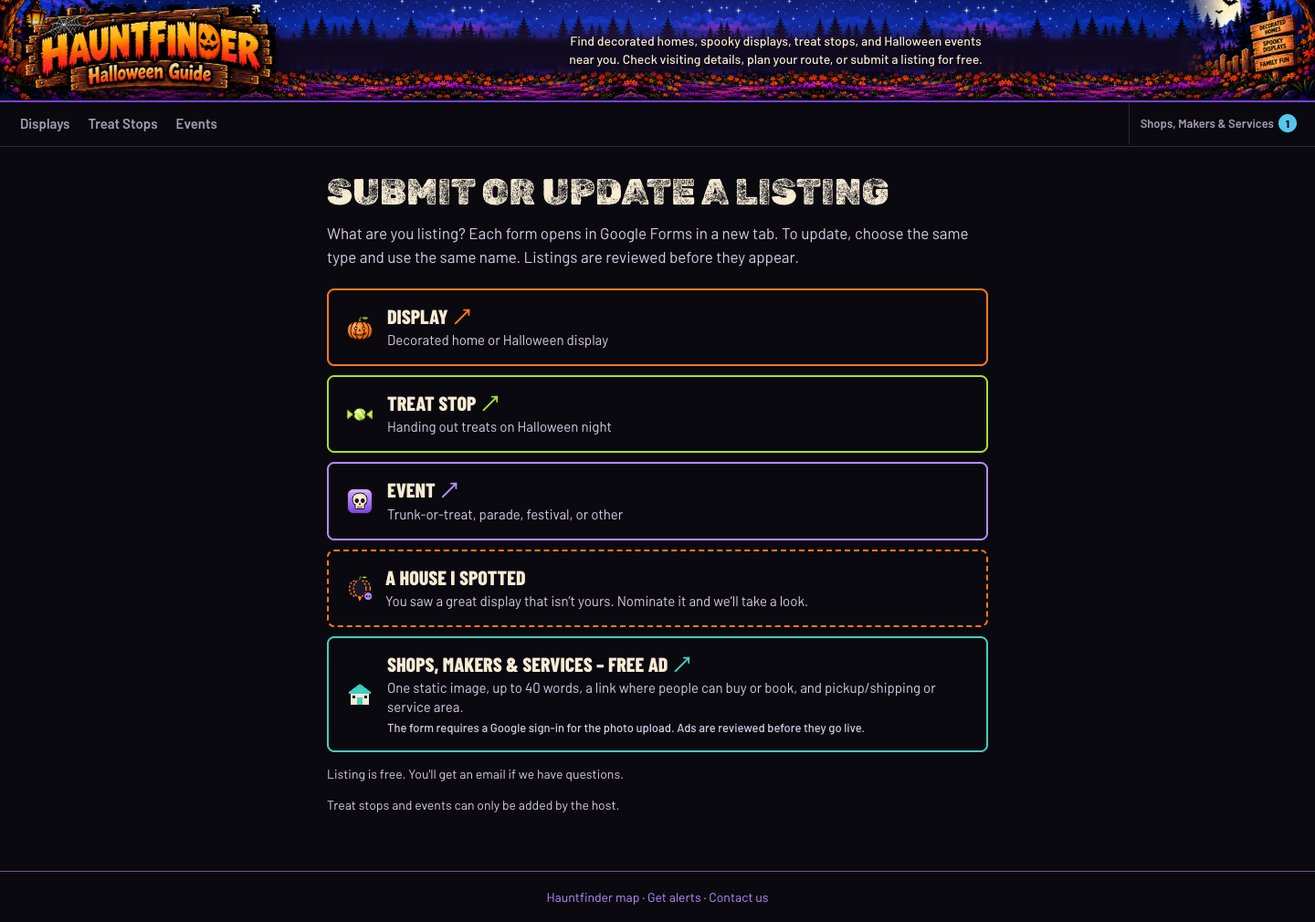
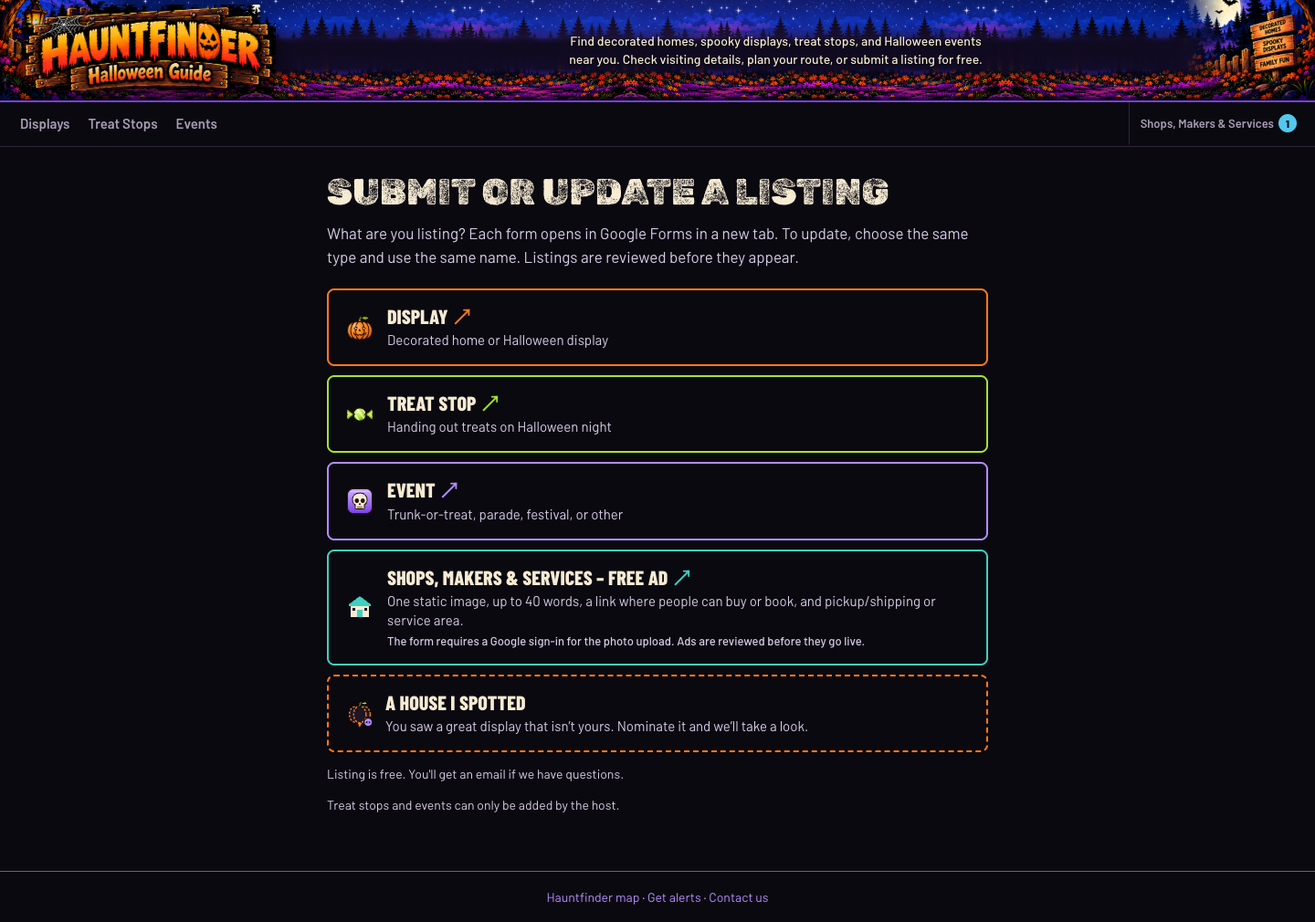
Apply design calls: rail toggle, submit order, owner-sized community pins
- Community spotted moves into the filter rail (and the phone Filters sheet),
  off counts as an active filter, Clear all restores it; floating chip removed.
- submit.html: "A house I spotted" is last, after Shops.
- Community pins shrink to 30x35 mobile / 34x40 desktop inside a 44x44 tap box.

Changed region(s): [[0.25, 0.6139, 0.75, 0.798]]

diff --git a/index.html b/index.html
@@ -36,7 +36,7 @@ fbq('track', 'PageView');
 <main class="shell page-grid app__main">
   <aside class="filter-rail" id="filterRail" aria-label="Listing filters"><button type="button" class="filter-rail__expand" id="railExpand" aria-expanded="true" aria-controls="filters"><span class="filter-rail__expand-label">Show filters ▸</span><span class="filter-rail__badge" id="railBadge" hidden></span></button><div class="filter-rail__head"><span aria-hidden="true">☰</span><h2>Filters</h2></div><div class="filter-rail__sheet-head"><h2 id="sheetTitle">Filters</h2><button type="button" class="sheet-close" id="sheetClose" aria-label="Close filters">×</button></div><div class="filters" id="filters" aria-label="Filter displays"></div><div class="filter-rail__sheet-foot"><button type="button" class="btn btn--outline" id="sheetClear">Clear all</button><button type="button" class="btn btn--route" id="sheetShow">Show results</button></div><nav class="filter-rail__links" aria-label="Site links"><a href="submit.html">+ Submit a listing</a><button type="button" id="shareBtn">Share this site</button><a href="about.html">About</a><a href="alerts.html">Get alerts</a><a href="mailto:mtocommunityfinder@gmail.com">Contact us</a><span id="railVisits" hidden>Site visits: <span id="railVisitsCount"></span></span></nav></aside>
   <section class="map-column" aria-label="Display map">
-    <section id="eventCalendar" class="event-calendar" aria-labelledby="eventCalendarHeading" hidden><div class="events-head"><div class="events-weeknav" id="eventsWeekNav"><button type="button" id="prevWeek" class="events-weeknav__btn">‹ Prev week</button><h2 id="eventCalendarHeading" class="events-title">Halloween week</h2><button type="button" id="nextWeek" class="events-weeknav__btn">Next week ›</button></div><div class="events-head__actions"><button type="button" id="addAllToCalendar" class="events-ics"><img src="assets/icons/icon-calendar.svg" alt="" width="18" height="18">Add all events to your calendar</button><button type="button" id="thisWeek" class="btn btn--outline">This week</button><a id="submitEvent" class="btn btn--outline events-submit" hidden target="_blank" rel="noopener">+ Submit an event ↗</a></div></div><div class="ongoing-band" id="ongoingBand" hidden><span class="ongoing-band__label">Open all week</span><div class="ongoing-band__items" id="ongoingItems"></div></div><div class="events-view" id="eventsView"><div class="seg events-view__seg" role="radiogroup" aria-label="Events view"><button type="button" data-events-view="3days" aria-checked="false">3 days</button><button type="button" data-events-view="week" aria-checked="true">Week</button></div><button type="button" id="allEventDays" class="btn btn--outline">All week</button><p class="events-view__helper" id="eventsViewHelper">3 days shows today and the next two days</p></div><div id="eventWeek" class="event-week" data-view="week"></div><div id="eventsMobileList" class="events-mobile-list"></div><div class="event-legend" id="eventLegend" aria-label="Event type legend"></div></section><div class="map-frame"><div id="map" class="hf-map" aria-label="Interactive Halloween display map"></div><div id="mapPeek" class="map-peek is-hidden" aria-live="polite"></div><button type="button" class="community-chip" id="communityChip" aria-pressed="true"><span class="community-chip__box" aria-hidden="true">✓</span>Community spotted</button><a class="nominate-fab" id="nominateFab" href="nominate.html"><img src="assets/pins/pin-community.svg" alt="" width="20" height="24">Spotted a great house? Nominate it</a><div class="map-key" id="mapKey"><button type="button" class="map-key__toggle" id="mapKeyToggle" aria-expanded="false" aria-controls="mapKeyPanel">Map key <span aria-hidden="true">▾</span></button><div class="map-key__panel" id="mapKeyPanel"><h2 class="map-key__title">Map key</h2><ul class="map-key__rows"><li><img src="assets/icons/v2/pin-display.svg" alt="" width="24" height="29">Display</li><li><img src="assets/icons/v2/pin-treat-stop.svg" alt="" width="24" height="29">Treat stop</li><li><img src="assets/icons/v2/pin-event.svg" alt="" width="24" height="29">Event on your route</li><li><img src="assets/pins/pin-community.svg" alt="" width="24" height="28">Spotted by the community</li><li><img src="assets/icons/badge-on-route.svg" alt="" width="24" height="24">On your route</li></ul></div></div><small class="map-note">Distances are straight-line</small><button type="button" class="map-float-btn map-float-btn--search" id="searchAreaBtn">Search this area</button><button type="button" class="map-float-btn map-float-btn--full" id="fullMapBtn">Full map</button><div class="map-full-head" id="mapFullHead" hidden><button type="button" class="map-full-head__close" id="closeFullMapBtn">✕ Close map</button><p class="map-full-head__status" id="fullMapStatus">Within 25 mi of 07828</p><div class="map-full-head__radii" role="radiogroup" aria-label="Search radius"><button type="button" data-radius="5" aria-checked="false">5 mi</button><button type="button" data-radius="10" aria-checked="false">10 mi</button><button type="button" data-radius="25" aria-checked="true">25 mi</button><button type="button" data-radius="50" aria-checked="false">50 mi</button></div></div></div><div class="map-info"><div class="map-info__notes"><small class="map-hint" id="mapCategoryHint">Click or tap a pumpkin for details</small></div></div>
+    <section id="eventCalendar" class="event-calendar" aria-labelledby="eventCalendarHeading" hidden><div class="events-head"><div class="events-weeknav" id="eventsWeekNav"><button type="button" id="prevWeek" class="events-weeknav__btn">‹ Prev week</button><h2 id="eventCalendarHeading" class="events-title">Halloween week</h2><button type="button" id="nextWeek" class="events-weeknav__btn">Next week ›</button></div><div class="events-head__actions"><button type="button" id="addAllToCalendar" class="events-ics"><img src="assets/icons/icon-calendar.svg" alt="" width="18" height="18">Add all events to your calendar</button><button type="button" id="thisWeek" class="btn btn--outline">This week</button><a id="submitEvent" class="btn btn--outline events-submit" hidden target="_blank" rel="noopener">+ Submit an event ↗</a></div></div><div class="ongoing-band" id="ongoingBand" hidden><span class="ongoing-band__label">Open all week</span><div class="ongoing-band__items" id="ongoingItems"></div></div><div class="events-view" id="eventsView"><div class="seg events-view__seg" role="radiogroup" aria-label="Events view"><button type="button" data-events-view="3days" aria-checked="false">3 days</button><button type="button" data-events-view="week" aria-checked="true">Week</button></div><button type="button" id="allEventDays" class="btn btn--outline">All week</button><p class="events-view__helper" id="eventsViewHelper">3 days shows today and the next two days</p></div><div id="eventWeek" class="event-week" data-view="week"></div><div id="eventsMobileList" class="events-mobile-list"></div><div class="event-legend" id="eventLegend" aria-label="Event type legend"></div></section><div class="map-frame"><div id="map" class="hf-map" aria-label="Interactive Halloween display map"></div><div id="mapPeek" class="map-peek is-hidden" aria-live="polite"></div><a class="nominate-fab" id="nominateFab" href="nominate.html"><img src="assets/pins/pin-community.svg" alt="" width="20" height="24">Spotted a great house? Nominate it</a><div class="map-key" id="mapKey"><button type="button" class="map-key__toggle" id="mapKeyToggle" aria-expanded="false" aria-controls="mapKeyPanel">Map key <span aria-hidden="true">▾</span></button><div class="map-key__panel" id="mapKeyPanel"><h2 class="map-key__title">Map key</h2><ul class="map-key__rows"><li><img src="assets/icons/v2/pin-display.svg" alt="" width="24" height="29">Display</li><li><img src="assets/icons/v2/pin-treat-stop.svg" alt="" width="24" height="29">Treat stop</li><li><img src="assets/icons/v2/pin-event.svg" alt="" width="24" height="29">Event on your route</li><li><img src="assets/pins/pin-community.svg" alt="" width="24" height="28">Spotted by the community</li><li><img src="assets/icons/badge-on-route.svg" alt="" width="24" height="24">On your route</li></ul></div></div><small class="map-note">Distances are straight-line</small><button type="button" class="map-float-btn map-float-btn--search" id="searchAreaBtn">Search this area</button><button type="button" class="map-float-btn map-float-btn--full" id="fullMapBtn">Full map</button><div class="map-full-head" id="mapFullHead" hidden><button type="button" class="map-full-head__close" id="closeFullMapBtn">✕ Close map</button><p class="map-full-head__status" id="fullMapStatus">Within 25 mi of 07828</p><div class="map-full-head__radii" role="radiogroup" aria-label="Search radius"><button type="button" data-radius="5" aria-checked="false">5 mi</button><button type="button" data-radius="10" aria-checked="false">10 mi</button><button type="button" data-radius="25" aria-checked="true">25 mi</button><button type="button" data-radius="50" aria-checked="false">50 mi</button></div></div></div><div class="map-info"><div class="map-info__notes"><small class="map-hint" id="mapCategoryHint">Click or tap a pumpkin for details</small></div></div>
   </section>
   <aside class="list-column">
     <div id="contentPanels" class="content-panels">

diff --git a/app.js b/app.js
@@ -1271,7 +1271,7 @@ function cardIconHTML(kind){return `<div class="pin pin--${kind} pin--card"><img
 function raiseMarker(m,on){if(!m||!m.setZIndexOffset)return;if(m._hfBase===undefined)m._hfBase=m.options.zIndexOffset||0;m.setZIndexOffset(m._hfBase+(on?1000:0))}
 function pinWidth(){return matchMedia('(max-width:767px)').matches?30:34}
 function pinHeight(w){return Math.round(w*156/128)}
-function iconFor(n,kind){if(kind==='community'){const mobile=matchMedia('(max-width:767px)').matches,w=mobile?46:58,h=mobile?54:68;return L.divIcon({className:'',html:communityPinHTML(n),iconSize:[w,h],iconAnchor:[w/2,h]})}const w=pinWidth(),h=pinHeight(w);return L.divIcon({className:'',html:pinHTML(n,kind),iconSize:[w,h],iconAnchor:[w/2,h-1]})}
+function iconFor(n,kind){if(kind==='community'){return L.divIcon({className:'community-icon',html:communityPinHTML(n),iconSize:[44,44],iconAnchor:[22,44]})}const w=pinWidth(),h=pinHeight(w);return L.divIcon({className:'',html:pinHTML(n,kind),iconSize:[w,h],iconAnchor:[w/2,h-1]})}
 function gmapsDirections(address){return `https://www.google.com/maps/dir/?api=1&destination=${encodeURIComponent(address)}`}
 // Route-planner meta line for event stops: their date + hours, never a town.
 function eventDateBits(x){const upcoming=typeof eventUpcomingDates==='function'?eventUpcomingDates(x):[];const dates=upcoming.length?upcoming:(x.date?[x.date]:[]);const fmt=d=>new Date(d+'T12:00:00').toLocaleDateString('en-US',{month:'short',day:'numeric'});if(!dates.length){const d=x.date||String(x.startAt||'').slice(0,10);return d&&/^\d{4}-\d{2}-\d{2}$/.test(d)?fmt(d):'Date TBA'}if(dates.length===1)return fmt(dates[0]);return 'Next '+fmt(dates[0])+' · also '+dates.slice(1).map(fmt).join(', ')}
@@ -1281,6 +1281,8 @@ function isTreatStop(x){return x.kind==='Trick-or-treat stop'}
 // lat/lng is the curb point in front of the verified address, never the rooftop or the photo's GPS point.
 // Records still carry levels/type/features arrays (empty) so every owner-listing filter keeps working.
 function isCommunity(x){return !!x&&x.source==='community'}
+// "Community spotted" is a rail/filter-sheet toggle, separate from the scare-level chips. Off hides only community pins and cards.
+function setCommunity(on){state.community=!!on;const sel=listings.find(v=>v.num===state.selected);if(!state.community&&sel&&isCommunity(sel)){state.selected=null;hidePeek()}}
 function removedHere(x){try{return JSON.parse(localStorage.getItem('hfhidden:2026')||'[]').includes(x.num)}catch{return false}}
 const COMMUNITY_BADGE='Spotted by the community, not submitted by the owner';
 function communityNameText(x){return String(x.name||'')}
@@ -1380,8 +1382,6 @@ function revealSelectedPin(){if(state.selected==null)return;const sm=markerByNum
 async function loadMarkers(){const bounds=[];for(const x of listings){if(x.placeholder||!Number.isFinite(x.lat)||!Number.isFinite(x.lng))continue;const c={lat:x.lat,lng:x.lng};state.coords[x.num]=c;const m=L.marker([c.lat,c.lng],{icon:iconFor(x.num,isCommunity(x)?'community':isTreatStop(x)?'treat':'display'),keyboard:true,title:`${isCommunity(x)?'Community-spotted display':isTreatStop(x)?'Treat stop':'Display'}: ${x.name}`,zIndexOffset:(listings.filter(v=>v.address===x.address).length>1?1000:100)+x.num});m.on('add',()=>applyPinState(m,x.num));addListing(m);m.getElement()?.setAttribute('aria-label',`${isCommunity(x)?'Community-spotted display':isTreatStop(x)?'Treat stop':'Display'}: ${x.name}`);m.on('click',()=>{selectListing(x.num,true)});m.on('mouseover',()=>linkPair(x.num,true));m.on('mouseout',()=>linkPair(x.num,false));markerByNum.set(x.num,m);bounds.push([c.lat,c.lng])}if(bounds.length)fitVisiblePins();[100,600,1500].forEach(t=>setTimeout(()=>{map.invalidateSize();revealSelectedPin()},t))}
 
 document.getElementById('filters').addEventListener('click',e=>{if(e.target.closest('[data-reset-filters]')){state.filter='All';state.dateFilter=typeof saveDateFilter==='function'?saveDateFilter({kind:null,date:null},localStorage):null;renderFilters();renderCards();return}const b=e.target.closest('[data-filter]');if(!b)return;state.filter=state.filter===b.dataset.filter?'All':b.dataset.filter;renderFilters();renderCards()});document.getElementById('showAllBtn').onclick=()=>{state.filter='All';state.features=[];state.dateFilter=typeof saveDateFilter==='function'?saveDateFilter({kind:null,date:null},localStorage):null;renderFilters();renderCards()};document.getElementById('shareBtn').onclick=async()=>{const b=document.getElementById('shareBtn'),payload={title:'Hauntfinder',text:'Find Halloween displays, treat stops, and events near you.',url:'https://hauntfinder.vercel.app/'};try{if(navigator.share)await navigator.share(payload);else{await navigator.clipboard.writeText('https://hauntfinder.vercel.app/');b.textContent='Link copied';setTimeout(()=>b.textContent='Share this site',2000)}}catch{}};
-// Community spotted chip: its own toggle, separate from the scare-level chips. Off hides only community pins and cards.
-(function(){const chip=document.getElementById('communityChip');if(!chip)return;const box=chip.querySelector('.community-chip__box');chip.addEventListener('click',()=>{state.community=!state.community;chip.setAttribute('aria-pressed',String(state.community));box.textContent=state.community?'✓':'';const sel=listings.find(v=>v.num===state.selected);if(!state.community&&sel&&isCommunity(sel)){state.selected=null;hidePeek()}renderCards()})})();
 renderFilters();renderCards();renderRoute();loadMarkers();
 
 

diff --git a/community.css b/community.css
@@ -1,28 +1,28 @@
 /* Community-spotted houses on the map, cards, key and submit chooser.
    Values follow the approved "Nominate a Display" design (1a, 1b, 1f, 1h). */
-/* Pins: 46x54 mobile, 58x68 desktop, anchored bottom-centre (anchor set in app.js). */
-html body .pin.pin--community{width:46px;height:54px;filter:drop-shadow(0 3px 6px rgba(0,0,0,.6))}
-@media(min-width:768px){html body .pin.pin--community{width:58px;height:68px}}
-html body .pin.pin--community.is-linked,html body .pin.pin--community.is-selected{transform:scale(1.18);filter:drop-shadow(0 0 10px rgba(180,140,255,.9))}
+/* Pins: owner-pin proportions (30x35 mobile, 34x40 desktop) so unverified community pins never outshine owner pins,
+   inside a 44x44 invisible tap area (the Leaflet icon box). Anchor is bottom centre. */
+.community-icon{width:44px;height:44px}
+html body .community-icon .pin.pin--community{position:absolute;left:50%;bottom:0;width:30px;height:35px;margin-left:-15px;filter:drop-shadow(0 3px 6px rgba(0,0,0,.6))}
+@media(min-width:768px){html body .community-icon .pin.pin--community{width:34px;height:40px;margin-left:-17px}}
+html body .community-icon .pin.pin--community.is-linked,html body .community-icon .pin.pin--community.is-selected{transform:scale(1.18);filter:drop-shadow(0 0 10px rgba(180,140,255,.9))}
 html body .pin.pin--community::after{display:none}
 .pin--community .pin__art--route{display:none}
 .pin--community.is-on-route .pin__art{display:none}
 .pin--community.is-on-route .pin__art--route{display:block}
-.pin__cnum{position:absolute;left:0;right:0;top:35%;text-align:center;font:800 17px/20px var(--f-cond);color:#FF7A1A;pointer-events:none}
-@media(min-width:768px){.pin__cnum{font-size:19px;line-height:22px;top:34%}}
+.pin__cnum{position:absolute;left:0;right:0;top:34%;text-align:center;font:800 11px/13px var(--f-cond);color:#FF7A1A;pointer-events:none}
+@media(min-width:768px){.pin__cnum{font-size:12px;line-height:14px}}
 .pin--community.is-on-route .pin__cnum{color:#A6E22E}
 /* Card pins sit at 40x47 in the card head. */
 html body .card__pin--community,html body #cardList .card--compact .card__head .card__pin--community{flex:none;width:40px;height:47px}
 html body .card__pin--community .pin.pin--card,html body #cardList .card--compact .card__head .card__pin--community .pin{width:40px;height:47px;transform:none;filter:none}
 .card__pin--community .pin__cnum{font-size:15px;line-height:18px;top:32%}
 
-/* Filter chip: checkbox-style toggle, on by default, separate from the scare-level chips. */
-.community-chip{position:absolute;left:60px;top:12px;z-index:650;height:36px;padding:0 14px 0 10px;border-radius:18px;border:1px solid #B48CFF;background:#241638;color:#F6EBD3;font:600 14px var(--f-body);display:flex;align-items:center;gap:8px;cursor:pointer}
-.community-chip__box{width:18px;height:18px;border-radius:4px;background:#B48CFF;color:#120E18;font:800 13px var(--f-body);display:flex;align-items:center;justify-content:center;box-sizing:border-box}
-.community-chip[aria-pressed="false"]{border-color:#3A3046;background:#16111E;color:#CFC4B0}
-.community-chip[aria-pressed="false"] .community-chip__box{background:transparent;border:1.5px solid #A89DB4}
-.community-chip:focus-visible,.nominate-fab:focus-visible{outline:2px solid #F6EBD3;outline-offset:2px}
-html:not([data-category="displays"]) .community-chip,html[data-fullmap] .community-chip{display:none}
+/* Filter toggle in the filter rail (and the phone Filters sheet): checkbox-style, separate from the scare-level chips. */
+.filter-rail .filter.filter--rail[data-rail-filter="community"]{display:inline-flex;align-items:center;gap:8px;padding-left:8px}
+.filter-rail .filter--rail[data-rail-filter="community"]::before{content:"";width:16px;height:16px;border-radius:4px;border:1.5px solid #A89DB4;box-sizing:border-box;flex:none}
+.filter-rail .filter.filter--rail[data-rail-filter="community"][aria-pressed="true"]{border-color:#B48CFF;background:#241638;color:#F6EBD3}
+.filter-rail .filter--rail[data-rail-filter="community"][aria-pressed="true"]::before{content:"✓";background:#B48CFF;border-color:#B48CFF;color:#120E18;font:800 12px/13px var(--f-body);text-align:center}
 html[data-fullmap] .nominate-fab{display:none}
 
 /* Entry point on the map, beside Submit. */
@@ -60,7 +60,7 @@ html:not([data-category="displays"]) .nominate-fab{display:none}
 /* Map peek on phones: the card as a bottom sheet. */
 .map-popup--community{max-height:70vh;overflow:auto}
 @media(min-width:768px){html body .map-peek .map-popup--community{width:340px;max-width:calc(100% - 24px)}}
-.pin__cnum--wide{font-size:13px}
+.pin__cnum--wide{font-size:9px}
 .map-popup--community .map-popup__close{position:absolute;top:8px;right:8px;z-index:2}
 
 /* Submit chooser: "A house I spotted". */

diff --git a/tests/community.test.js b/tests/community.test.js
@@ -42,21 +42,32 @@ test('community pin: own art, on-route art, number is the listing number',()=>{
   const h=helpers().communityPinHTML(7);
   assert.ok(h.includes('assets/pins/pin-community.svg')&&h.includes('assets/pins/pin-community-route.svg')&&h.includes('>7<'));
   assert.match(css,/pin--community\.is-on-route \.pin__art--route\{display:block\}/);
-  assert.match(css,/\.pin__cnum\{[^}]*800 17px\/20px var\(--f-cond\);color:#FF7A1A/,'number Barlow Condensed 800 in #FF7A1A');
+  assert.match(css,/\.pin__cnum\{[^}]*800 11px\/13px var\(--f-cond\);color:#FF7A1A/,'number Barlow Condensed 800 in #FF7A1A');
   assert.match(css,/is-on-route \.pin__cnum\{color:#A6E22E\}/,'on-route number is lime');
-  assert.match(css,/pin--community\{width:46px;height:54px/);assert.match(css,/min-width:768px\)\{html body \.pin\.pin--community\{width:58px;height:68px/);
-  assert.ok(app.includes('iconAnchor:[w/2,h]'),'community anchor is bottom centre');
+  assert.match(css,/community-icon \.pin\.pin--community\{position:absolute;left:50%;bottom:0;width:30px;height:35px/,'30x35 on mobile');
+  assert.match(css,/min-width:768px\)\{html body \.community-icon \.pin\.pin--community\{width:34px;height:40px/,'34x40 on desktop');
+  assert.ok(app.includes('iconSize:[44,44],iconAnchor:[22,44]'),'44x44 tap area, bottom-centre anchor');
 });
-test('filter: community chip is its own toggle, default on, hides only community; hidden listings never show',()=>{
+test('filter: Community spotted is a rail toggle (phone Filters sheet too), default on, separate from scare level; hidden listings never show',()=>{
+  const chrome=read('chrome-filters.js');
   assert.ok(app.includes('community:true'),'on by default');
-  assert.ok(html.includes('id="communityChip" aria-pressed="true"')&&html.includes('Community spotted'));
+  assert.equal(html.includes('communityChip'),false,'no floating chip over the map');
+  assert.ok(chrome.includes("railSection('Community',railChip('community','community','Community spotted',state.community!==false))"),'chip lives in the filter rail');
+  assert.ok(chrome.includes("if(action==='community')setCommunity(state.community===false);"),'toggle handler');
+  assert.ok(chrome.includes("railSection('Scare level',scares)+railSection('Community'"),'its own group, after scare level');
+  assert.ok(/function railActiveCount\(\)\{return \(state\.community===false\?1:0\)/.test(chrome),'off counts as an active filter');
+  assert.ok(chrome.includes("if(e.target.closest('[data-rail-clear]')){state.community=true;"),'Clear all filters restores the default');
   assert.ok(app.includes("if(x.hidden||removedHere(x))return false;if(isCommunity(x)&&!state.community)return false;"),'matchFilter order');
-  assert.equal(/state\.filter=.*communityChip/.test(app),false,'chip does not touch the scare-level filter');
   const m=/function removedHere\(x\)\{[^\n]*\}/.exec(app)[0];
   const ctx={localStorage:{getItem:()=>JSON.stringify([7])}};vm.createContext(ctx);vm.runInContext(m,ctx);
   assert.equal(ctx.removedHere({num:7}),true);assert.equal(ctx.removedHere({num:8}),false);
+  const sc=/function setCommunity\(on\)\{[^\n]*\}/.exec(app)[0],c2={state:{community:true,selected:7},listings:[{num:7,source:'community'}],isCommunity:x=>x.source==='community',hid:false,hidePeek:()=>{c2.hid=true}};
+  vm.createContext(c2);vm.runInContext(sc+';setCommunity(false)',c2);
+  assert.equal(c2.state.community,false);assert.equal(c2.state.selected,null);assert.equal(c2.hid,true);
 });
-test('entry points: map button, submit.html third choice, map key row',()=>{
+test('entry points: map button, submit.html last choice after Shops, map key row',()=>{
+  assert.ok(submit.indexOf('data-type-link="shop"')<submit.indexOf('data-type-link="spotted"'),'A house I spotted comes after Shops');
+  assert.ok(submit.indexOf('data-type-link="spotted"')<submit.indexOf('Treat stops and events can only be added by the host.'),'right next to the host line');
   assert.ok(html.includes('href="nominate.html">')&&html.includes('Spotted a great house? Nominate it'));
   assert.ok(submit.includes('A house I spotted')&&submit.includes('You saw a great display that isn’t yours. Nominate it and we’ll take a look.')&&submit.includes('href="nominate.html"'));
   assert.ok(submit.includes('Treat stops and events can only be added by the host.'));

diff --git a/chrome-filters.js b/chrome-filters.js
@@ -113,7 +113,7 @@ function ddHTML(kind,label,valueText,active,session){return `<details class="dd$
 
 function railChip(action,value,label,pressed){return `<button type="button" class="filter filter--rail" data-rail-filter="${action}" data-value="${String(value).replace(/&/g,'&amp;').replace(/"/g,'&quot;')}" aria-pressed="${pressed}">${action==='event-type'&&typeof hfEventColor==='function'?`<span class="type-dot" aria-hidden="true" style="background:${hfEventColor({eventType:value})}"></span>`:''}${typeof hfIconSVG==='function'&&action!=='event-type'?hfIconSVG(value)||hfIconSVG(label):''}${label}</button>`}
 function railSection(label,body){return `<section class="filter-rail__section"><h3>${label}</h3><div class="filter-rail__chips">${body}</div></section>`}
-function railActiveCount(){return (state.dateFilter&&state.dateFilter.kind?1:0)+(state.filter&&state.filter!=='All'?1:0)+((state.features||[]).length)}
+function railActiveCount(){return (state.community===false?1:0)+(state.dateFilter&&state.dateFilter.kind?1:0)+(state.filter&&state.filter!=='All'?1:0)+((state.features||[]).length)}
 function railClearHTML(){return railActiveCount()?'<button type="button" class="filter-rail__clear" data-rail-clear>Clear all filters</button>':''}
 function railFiltersHTML(){
  const kind=(state.dateFilter&&state.dateFilter.kind)||'',isHalloween=Boolean(state.dateFilter&&state.dateFilter.kind==='date'&&/\-10-31$/.test(state.dateFilter.date||''));
@@ -125,7 +125,7 @@ function railFiltersHTML(){
  else{
   const visit=[['Drive-by','Drive-by'],['Walk-by','Walk-up'],['Walk-through','Walk-through'],['Drive or walk by (both)','Drive or walk by (both)']].map(([v,l])=>railChip('show',v,l,state.filter===v)).join('');
   const scares=CHROME_SHOW_OPTIONS.filter(o=>['Family Friendly','Spooky','Scary'].includes(o.value)).map(o=>railChip('show',o.value,o.label,state.filter===o.value)).join('');
-  body=railSection('When',when)+railSection('How to visit',visit)+railSection('Scare level',scares)+railSection('Features',featureOptions().map(o=>railChip('feature',o.value,o.label,state.features.includes(o.value))).join(''));
+  body=railSection('When',when)+railSection('How to visit',visit)+railSection('Scare level',scares)+railSection('Community',railChip('community','community','Community spotted',state.community!==false))+railSection('Features',featureOptions().map(o=>railChip('feature',o.value,o.label,state.features.includes(o.value))).join(''));
  }
  return body+railClearHTML();
 }
@@ -163,11 +163,12 @@ filtersEl.addEventListener('toggle',e=>{
 },true);
 
 filtersEl.addEventListener('click',e=>{
- if(e.target.closest('[data-rail-clear]')){state.filter='All';state.features=[];state.categoryFeature='';state.dateFilter={kind:null,date:null};if(typeof saveDateFilter==='function')try{state.dateFilter=saveDateFilter(state.dateFilter,localStorage)}catch{}renderFilters();renderCards();return}
+ if(e.target.closest('[data-rail-clear]')){state.community=true;state.filter='All';state.features=[];state.categoryFeature='';state.dateFilter={kind:null,date:null};if(typeof saveDateFilter==='function')try{state.dateFilter=saveDateFilter(state.dateFilter,localStorage)}catch{}renderFilters();renderCards();return}
  const rail=e.target.closest('[data-rail-filter]');
  if(rail){
   const action=rail.dataset.railFilter,value=rail.dataset.value;
-  if(action==='show')state.filter=state.filter===value?'All':value;
+  if(action==='community')setCommunity(state.community===false);
+  else if(action==='show')state.filter=state.filter===value?'All':value;
   else if(action==='feature'||action==='event-feature'){const i=state.features.indexOf(value);if(i>=0)state.features.splice(i,1);else state.features.push(value)}
   else if(action==='event-type')state.filter=state.filter===value?'All':value;
   else if(action==='when')state.dateFilter={kind:state.dateFilter&&state.dateFilter.kind===value?null:value,date:null};

diff --git a/submit.html b/submit.html
@@ -32,14 +32,14 @@
       <img class="type-option__icon" src="assets/icons/v2/icon-event.svg" alt="" width="32" height="32"><span class="type-option__text"><span class="type-option__name">Event</span>
       <span class="type-option__desc">Trunk-or-treat, parade, festival, or other</span></span>
     </a>
-    <a class="type-option type-option--spotted" data-type-link="spotted" href="nominate.html">
-      <img class="type-option__icon" src="assets/pins/pin-community.svg" alt="" width="32" height="38"><span class="type-option__text"><span class="type-option__name">A house I spotted</span>
-      <span class="type-option__desc">You saw a great display that isn’t yours. Nominate it and we’ll take a look.</span></span>
-    </a>
     <a class="type-option" data-type-link="shop" href="https://docs.google.com/forms/d/e/1FAIpQLSeRLgk9i2EJF5AEipV6KLJnHgwXcAiNAd9fxS0KQAOZ7KbZbA/viewform" target="_blank" rel="noopener">
       <img class="type-option__icon" src="assets/icons/v2/icon-shop.svg" alt="" width="32" height="32"><span class="type-option__text"><span class="type-option__name">Shops, Makers &amp; Services – free ad</span>
       <span class="type-option__desc">One static image, up to 40 words, a link where people can buy or book, and pickup/shipping or service area.</span>
       <span class="type-option__note">The form requires a Google sign-in for the photo upload. Ads are reviewed before they go live.</span></span>
+    </a>
+    <a class="type-option type-option--spotted" data-type-link="spotted" href="nominate.html">
+      <img class="type-option__icon" src="assets/pins/pin-community.svg" alt="" width="32" height="38"><span class="type-option__text"><span class="type-option__name">A house I spotted</span>
+      <span class="type-option__desc">You saw a great display that isn’t yours. Nominate it and we’ll take a look.</span></span>
     </a>
   </div>
   <p class="form-note">Listing is free. You'll get an email if we have questions.</p>
